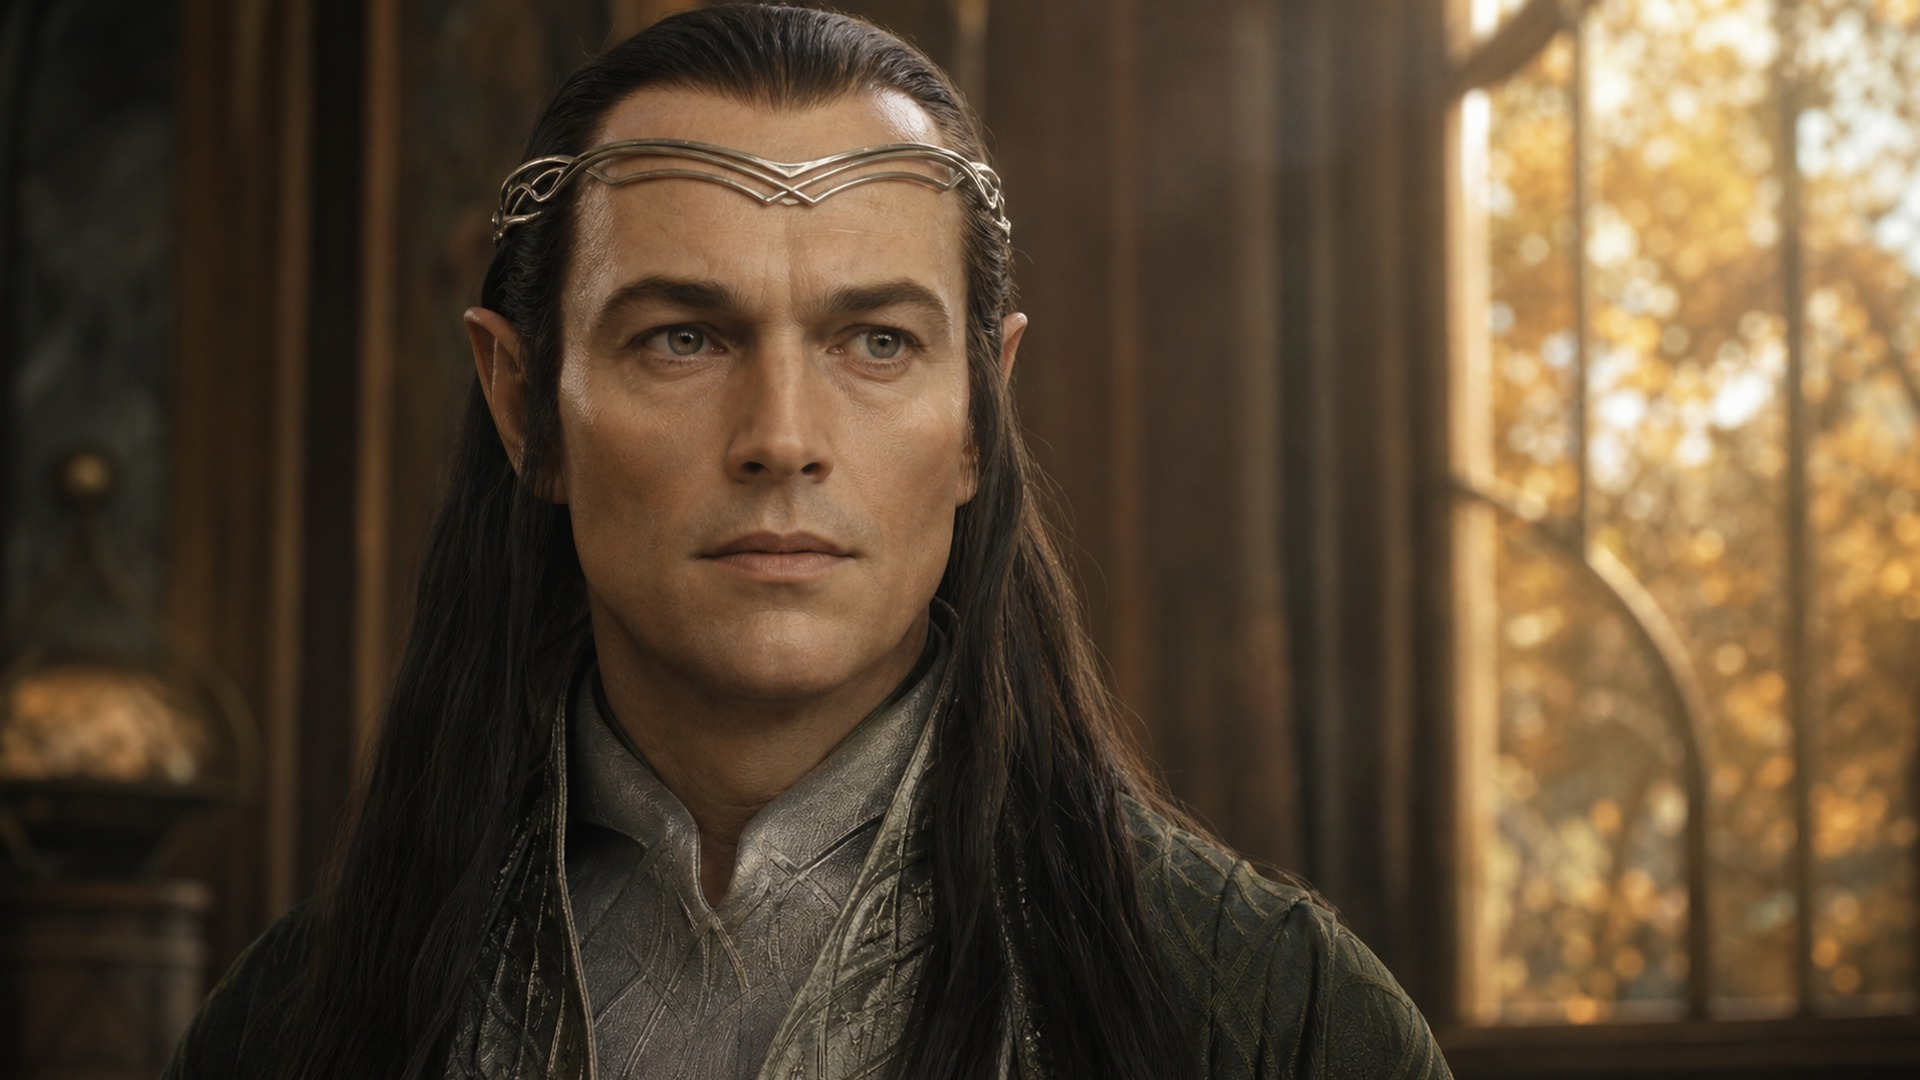
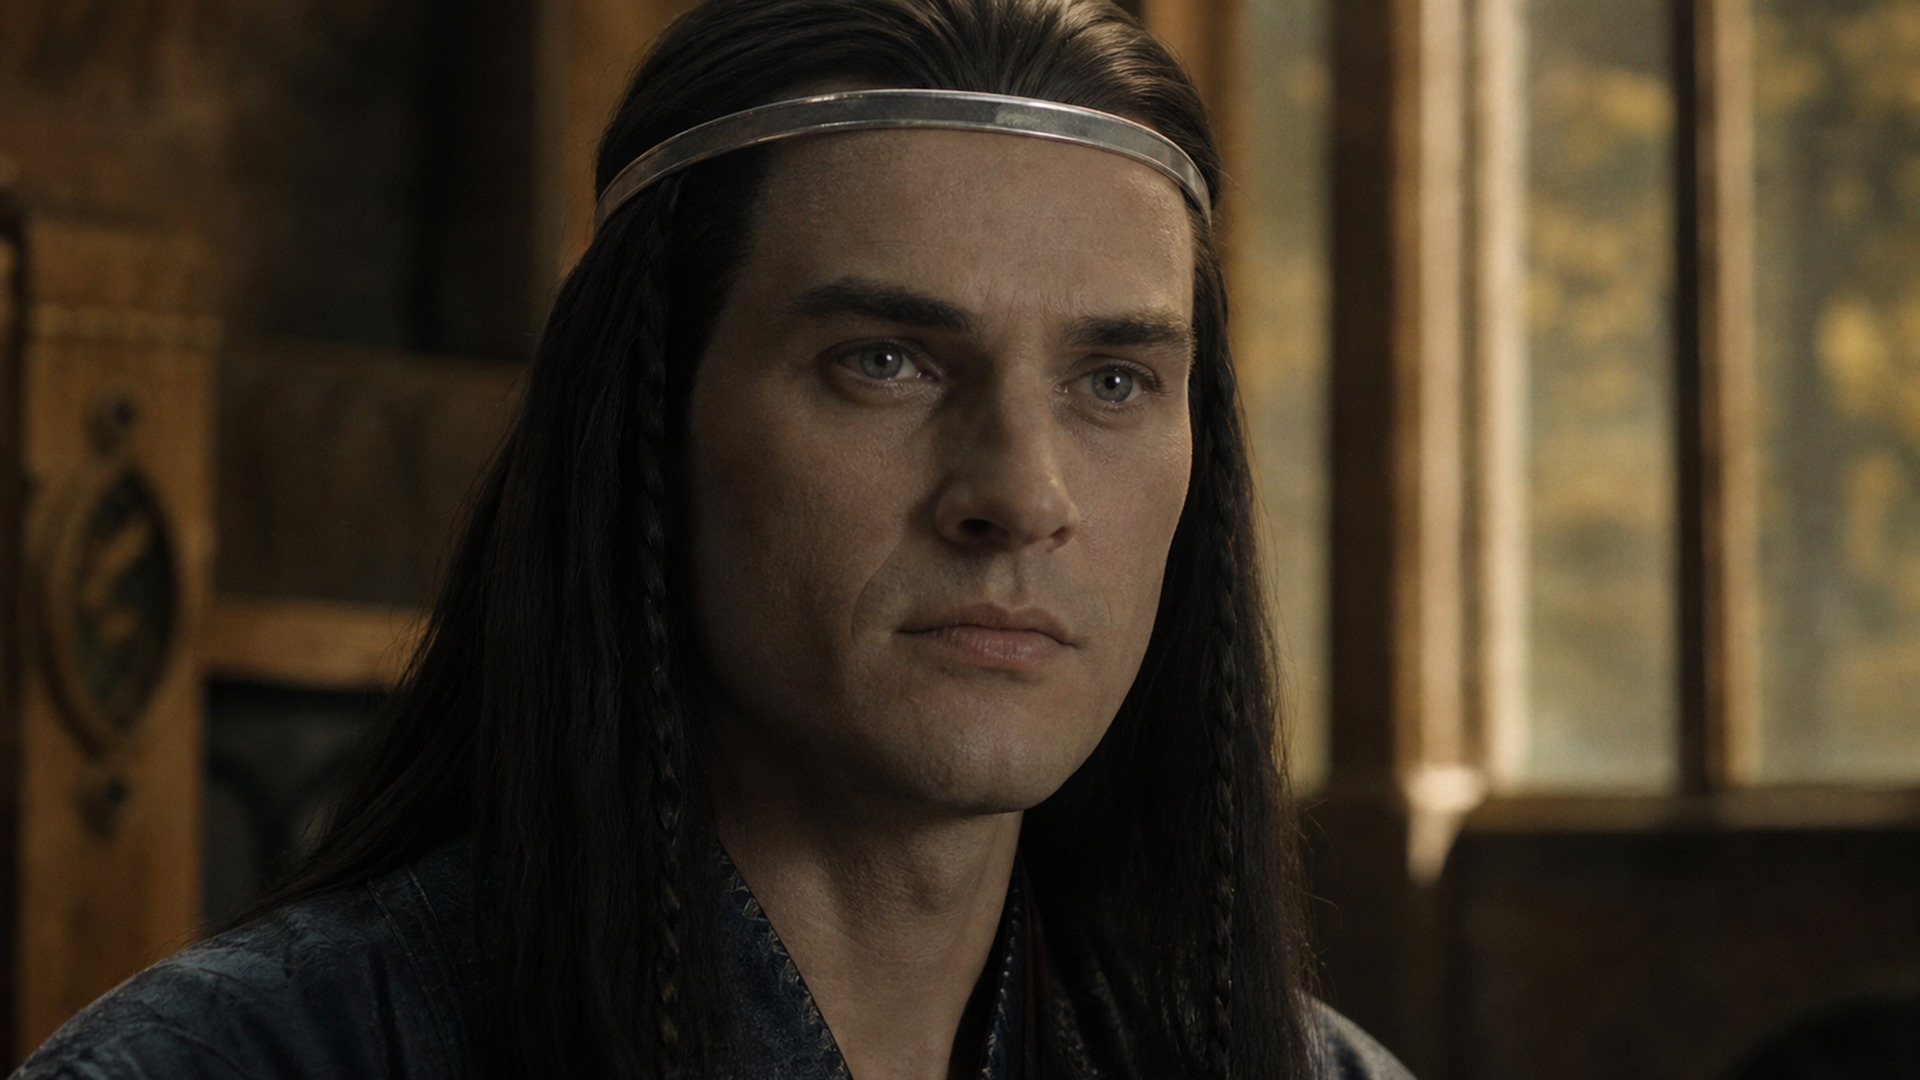
LOTR001 batch 2: S007 redo PASS, S011-S017 PASS, S019/S020 REDO (film-cast drift; reframed from behind); framing rule for hobbits/Fellowship

diff --git a/projects/dune_archives/tools/plans/lotr001_plan.py b/projects/dune_archives/tools/plans/lotr001_plan.py
@@ -28,9 +28,9 @@ PLAN = [
  ('H', 8, None, N('HALF_LIGHT_HALF_SHADOW', 'MS', [], 'a tall robed figure split down the middle by light: one side lit warm gold by a forge, the other side swallowed by black shadow and smoke, face hidden'), 'PUSH_IN'),
  # ---------------- P
  ('P', 0, None, N('RIVENDELL_AUTUMN', 'EW', [], 'a hidden elven valley in autumn: graceful timber-and-stone houses on terraces among golden trees, waterfalls falling into a deep gorge, a clear river, soft morning light, NO arches, NO columns'), 'PULL_OUT'),
- ('P', 1, None, N('COUNCIL_PORCH', 'EST', ['ELROND', 'FRODO'], 'a council seated in a wide circle of carved wooden chairs on a stone terrace above a river among autumn trees: tall elves in grey and silver, stocky bearded dwarves in mail, grim men in travel cloaks, a small hobbit, an old man in grey with a pointed hat seen from behind; morning sun, NO columns', [7]), 'PAN_LR'),
- ('P', 1, 'and a third', N('SAM_HIDING', 'MS', ['SAM'], 'crouched out of sight behind a stone balustrade and potted shrubs on a terrace, peeking out with wide anxious eyes, autumn leaves'), 'PUSH_IN'),
- ('P', 2, None, N('FRODO_HOLDS_RING', 'MS', ['FRODO'], 'standing before the council holding up a small plain gold ring between finger and thumb, trembling slightly, all eyes on it, morning light'), 'PUSH_IN'),
+ ('P', 1, None, N('COUNCIL_PORCH', 'EST', ['ELROND', 'FRODO'], 'a high wide view of a council seated in a wide circle of carved wooden chairs on a stone terrace above a river among autumn trees, all figures SMALL in frame with faces too distant to recognise: tall elves in grey and silver, stocky bearded dwarves in mail, men in travel cloaks, small hobbits, an old man in grey with a pointed hat seen from behind; morning sun, NO columns', [7]), 'PAN_LR'),
+ ('P', 1, 'and a third', N('SAM_HIDING', 'MS', ['SAM'], 'seen FROM BEHIND, crouched out of sight behind a low stone wall and potted shrubs on an autumn terrace, only the back of his curly head and his shoulders visible as he peeks toward a distant gathering, his face NOT visible, golden leaves falling'), 'PUSH_IN'),
+ ('P', 2, None, N('FRODO_HOLDS_RING', 'MS', ['FRODO'], 'over-the-shoulder shot from BEHIND the hobbit (back of his curly head and shoulder in soft focus, face NOT visible) as he holds up a small plain gold ring between finger and thumb in sharp focus; beyond, a seated council of tall elves, dwarves and men in heavy soft focus, their faces blurred and unrecognisable; morning light'), 'PUSH_IN'),
  ('P', 3, None, N('RING_MACRO_PALM', 'INS', [], 'macro of a plain smooth gold ring resting in a small hobbit\'s open palm, gleaming, deceptively innocent, no inscription visible'), 'PUSH_IN'),
  ('P', 4, None, N('BOROMIR_STANDS', 'MS', ['BOROMIR'], 'rising from his seat at the council, gesturing urgently, proud and stern, a great horn bound in silver hanging at his side, autumn light'), 'PUSH_IN'),
  ('P', 5, None, N('ELROND_RISES', 'MS', ['ELROND'], 'standing at the council, one hand raised, grave and refusing, golden leaves falling behind him', [7]), 'PUSH_IN'),

diff --git a/projects/dune_archives/data/lotr001_images.py b/projects/dune_archives/data/lotr001_images.py
@@ -55,8 +55,10 @@ CAST = {
     'SAURON_WOLF': 'Sauron in the form of a werewolf: a colossal grey-black wolf, the greatest ever seen, eyes like red embers',
     'CELEBRIMBOR': ('Celebrimbor, lord of the elven-smiths of Eregion: a young-looking elf lord with long straight black hair, sharp '
                     'clever features, bright grey eyes, a thin silver circlet, a dark blue tunic, soot on his hands'),
-    'ELROND': ('Elrond, an elf-lord whose face is ageless, neither old nor young: long dark hair, deep grey eyes, a smooth calm face, a '
-               'silver circlet, robes of grey and deep green; NOT resembling any film actor'),
+    'ELROND': ('Elrond as in the books, an elf-lord whose face is ageless, neither old nor young: a broad smooth brow with a FULL hairline, '
+               'long straight hair dark as the shadows of twilight worn loose with two thin braids, deep grey eyes, strong dark brows, a calm '
+               'square-jawed face, a PLAIN narrow band of silver on his head (no filigree, no V-shape), robes of deep blue-grey; NOT receding '
+               'hair, NOT resembling Hugo Weaving or any film actor'),
     'FRODO': ('Frodo Baggins as in the books: a hobbit about three and a half feet tall who looks thirty, a cleft chin, thick curly dark '
               'brown hair, hazel-brown eyes, a fair-skinned clever face, a green waistcoat, large bare feet with curly brown hair'),
     'SAM': ('Sam Gamgee as in the books: a sturdy hobbit with a round brown face, curly brown hair, brown eyes, plain brown clothes, '

diff --git a/projects/dune_archives/26_learning_log/CHANNEL_LEARNING_LOG.md b/projects/dune_archives/26_learning_log/CHANNEL_LEARNING_LOG.md
@@ -217,3 +217,4 @@
 - **A silver-haired woman with braids next to a fur-clad man turns into Daenerys and Jon** (S140). Even with the S002 ref, "two-shot from behind" got ignored and both faces appeared. For corpse-queen two-shots, say "faces NOT visible, backs to camera", keep her hair loose and frost-crusted, never braided, and pass S002 only for the robes.
 - **CI QC frame grabs must sit inside the programme length.** The GOT001 master failed after a good render because one grab was at 700 s and the episode is 636 s long. Grabs are now ≤ duration−10 s and `|| true`. An unused Drive resumable session survives a failed run, so re-commit the same URI.
 - **Director rule (2026-11-25): never name the author in narration, on screen or in copy; say "in the books".** GOT001 v1.1 re-recorded H, CA, VII and VIII; chapter VII is renamed "The Legend in the Books"; the NOTE card head "GEORGE R. R. MARTIN" became "IN THE BOOKS". Canon policy §4c.
+- **LOTR likeness (2026-11-25):** hobbits and Fellowship characters drift to the Jackson film cast even with 'NOT <actor>' in the prompt. Frame them from behind, over the shoulder or small in frame. A book-accurate Elrond needs an explicit full hairline and plain silver band.

diff --git a/projects/dune_archives/worlds/middle_earth/MIDDLE_EARTH_BOOK_LOOKS.md b/projects/dune_archives/worlds/middle_earth/MIDDLE_EARTH_BOOK_LOOKS.md
@@ -34,3 +34,8 @@ Book descriptions first. Where the books are silent, the design is our own and m
 
 - Photoreal and cinematic, like DUN/GOT, but warmer and more mythic: forge-gold, moonlit silver, Mordor red.
 - Every prompt includes "NO arches, NO columns" where architecture is shown, and "No text, no letters, no watermark".
+
+## Framing rule (learned in batch 2, 2026-11-25)
+
+- **Hobbits and the Fellowship drift hard toward the film cast** (Frodo → Elijah Wood, Sam → Sean Astin, Gandalf → Ian McKellen, Legolas, Aragorn). Frame them **from behind, over the shoulder, as hands or props, or small in a wide shot**, never as a frontal face. Group shots: faces distant or in soft focus.
+- Elrond: a plain silver band (the book's circlet), full hairline, never the film's receding hairline and filigree V-circlet.
